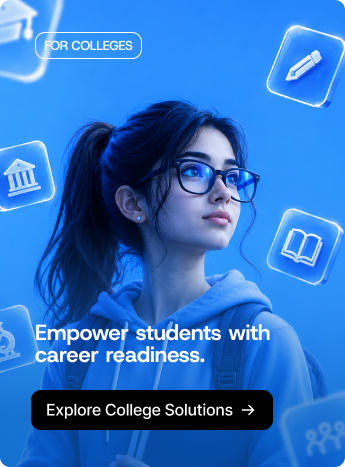
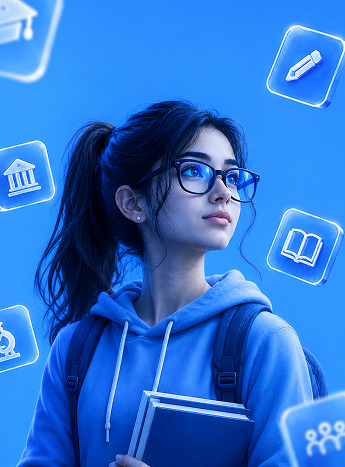
button radius updated

diff --git a/components/home/HeroSection.tsx b/components/home/HeroSection.tsx
@@ -9,13 +9,13 @@ export default function HeroSection() {
   return (
     <section className="relative overflow-hidden bg-gradient-to-b from-[#FAF0FA] via-[#F5EFFE] to-[#F1E9FD] pt-12 pb-14 md:pt-20 md:pb-20">
       {/* Decorative ambient background glows */}
-      <div 
-        className="pointer-events-none absolute -right-20 top-0 h-[600px] w-[600px] rounded-full bg-radial from-[#C9A6FF]/35 to-transparent blur-3xl" 
-        aria-hidden="true" 
+      <div
+        className="pointer-events-none absolute -right-20 top-0 h-[600px] w-[600px] rounded-full bg-radial from-[#C9A6FF]/35 to-transparent blur-3xl"
+        aria-hidden="true"
       />
-      <div 
-        className="pointer-events-none absolute -left-20 bottom-10 h-[450px] w-[450px] rounded-full bg-radial from-[#DCC7FF]/30 to-transparent blur-3xl" 
-        aria-hidden="true" 
+      <div
+        className="pointer-events-none absolute -left-20 bottom-10 h-[450px] w-[450px] rounded-full bg-radial from-[#DCC7FF]/30 to-transparent blur-3xl"
+        aria-hidden="true"
       />
 
       <div className="wrap relative z-10">
@@ -24,7 +24,7 @@ export default function HeroSection() {
           {/* Left Column: Text & Content */}
           <div className="lg:col-span-6 flex flex-col items-start gap-5">
             {/* Top Pill Badge */}
-            <div className="inline-flex items-center gap-2 rounded-full border border-black/15 bg-white/70 backdrop-blur-sm px-4 py-1.5 text-[13px] font-medium text-black shadow-xs">
+            <div className="inline-flex items-center gap-2 rounded-[10px] border border-black/15 bg-white/70 backdrop-blur-sm px-4 py-1.5 text-[13px] font-medium text-black shadow-xs">
               <span>Welcome Onboard</span>
             </div>
 
@@ -37,7 +37,9 @@ export default function HeroSection() {
 
             {/* Subtext */}
             <p className="text-[16px] sm:text-[18px] text-[#4C4C58] leading-relaxed max-w-[500px]">
-              SkillReady connects students, colleges, and companies through a structured ecosystem that transforms career aspirations into real opportunities.
+              SkillReady connects students, colleges, and companies through a
+              structured ecosystem that transforms career aspirations into real
+              opportunities.
             </p>
           </div>
 
@@ -62,7 +64,8 @@ export default function HeroSection() {
           <div className="flex items-center gap-4 text-left w-full md:w-auto">
             <Logo className="text-[#713FFF] w-10 h-10 flex-none" />
             <p className="text-[15px] sm:text-[16px] font-semibold text-black leading-snug">
-              Learn the right skills. Track progress. <br className="hidden sm:inline" />
+              Learn the right skills. Track progress.{" "}
+              <br className="hidden sm:inline" />
               Build employability. Hire with confidence.
             </p>
           </div>
@@ -71,24 +74,30 @@ export default function HeroSection() {
           <div className="flex items-center gap-2.5 sm:gap-3 flex-wrap justify-start sm:justify-end w-full md:w-auto">
             <Link
               href="/students"
-              className="inline-flex items-center gap-1.5 bg-black hover:bg-[#222222] text-white text-[14px] font-medium px-5 py-2.5 rounded-full transition-all duration-150 active:scale-95 shadow-xs"
+              className="inline-flex items-center gap-1.5 bg-black hover:bg-[#222222] text-white text-[14px] font-medium px-5 py-2.5 rounded-[10px] transition-all duration-150 active:scale-95 shadow-xs"
             >
               <span>Students</span>
-              <span aria-hidden="true" className="text-sm">→</span>
+              <span aria-hidden="true" className="text-sm">
+                →
+              </span>
             </Link>
             <Link
               href="/colleges"
-              className="inline-flex items-center gap-1.5 bg-black hover:bg-[#222222] text-white text-[14px] font-medium px-5 py-2.5 rounded-full transition-all duration-150 active:scale-95 shadow-xs"
+              className="inline-flex items-center gap-1.5 bg-black hover:bg-[#222222] text-white text-[14px] font-medium px-5 py-2.5 rounded-[10px] transition-all duration-150 active:scale-95 shadow-xs"
             >
               <span>Colleges</span>
-              <span aria-hidden="true" className="text-sm">→</span>
+              <span aria-hidden="true" className="text-sm">
+                →
+              </span>
             </Link>
             <Link
               href="/companies"
-              className="inline-flex items-center gap-1.5 bg-black hover:bg-[#222222] text-white text-[14px] font-medium px-5 py-2.5 rounded-full transition-all duration-150 active:scale-95 shadow-xs"
+              className="inline-flex items-center gap-1.5 bg-black hover:bg-[#222222] text-white text-[14px] font-medium px-5 py-2.5 rounded-[10px] transition-all duration-150 active:scale-95 shadow-xs"
             >
               <span>Companies</span>
-              <span aria-hidden="true" className="text-sm">→</span>
+              <span aria-hidden="true" className="text-sm">
+                →
+              </span>
             </Link>
           </div>
         </div>

diff --git a/components/home/CtaSection.tsx b/components/home/CtaSection.tsx
@@ -33,21 +33,21 @@ export default function CtaSection() {
             <div className="flex items-center gap-3 flex-wrap pt-2">
               <Link
                 href="/students"
-                className="inline-flex items-center gap-1.5 bg-black hover:bg-[#1C1C1C] text-white text-[14px] font-medium px-5 py-2.5 rounded-full transition-all duration-150 active:scale-95 shadow-md"
+                className="inline-flex items-center gap-1.5 bg-black hover:bg-[#1C1C1C] text-white text-[14px] font-medium px-5 py-2.5 rounded-[10px] transition-all duration-150 active:scale-95 shadow-md"
               >
                 <span>Students</span>
                 <span aria-hidden="true" className="text-sm">→</span>
               </Link>
               <Link
                 href="/colleges"
-                className="inline-flex items-center gap-1.5 bg-black hover:bg-[#1C1C1C] text-white text-[14px] font-medium px-5 py-2.5 rounded-full transition-all duration-150 active:scale-95 shadow-md"
+                className="inline-flex items-center gap-1.5 bg-black hover:bg-[#1C1C1C] text-white text-[14px] font-medium px-5 py-2.5 rounded-[10px] transition-all duration-150 active:scale-95 shadow-md"
               >
                 <span>Colleges</span>
                 <span aria-hidden="true" className="text-sm">→</span>
               </Link>
               <Link
                 href="/companies"
-                className="inline-flex items-center gap-1.5 bg-black hover:bg-[#1C1C1C] text-white text-[14px] font-medium px-5 py-2.5 rounded-full transition-all duration-150 active:scale-95 shadow-md"
+                className="inline-flex items-center gap-1.5 bg-black hover:bg-[#1C1C1C] text-white text-[14px] font-medium px-5 py-2.5 rounded-[10px] transition-all duration-150 active:scale-95 shadow-md"
               >
                 <span>Companies</span>
                 <span aria-hidden="true" className="text-sm">→</span>

diff --git a/components/layout/Navbar.tsx b/components/layout/Navbar.tsx
@@ -72,7 +72,7 @@ export default function Navbar() {
 
           <div className="nav-actions hidden md:flex items-center gap-3">
             <Link
-              className="bg-black hover:bg-[#222222] text-white text-[14px] font-medium px-5 py-2.5 rounded-full transition-all duration-150 active:scale-95 shadow-sm"
+              className="bg-black hover:bg-[#222222] text-white text-[14px] font-medium px-5 py-2.5 rounded-[10px] transition-all duration-150 active:scale-95 shadow-sm"
               href="/contact"
               onClick={() => setMobileMenuOpen(false)}
             >
@@ -114,7 +114,7 @@ export default function Navbar() {
             </Link>
             <div className="pt-3 border-t border-gray-100 flex flex-col gap-2">
               <Link
-                className="bg-black text-white text-center text-sm font-semibold py-3 rounded-full"
+                className="bg-black text-white text-center text-sm font-semibold py-3 rounded-[10px]"
                 href="/contact"
                 onClick={() => setMobileMenuOpen(false)}
               >

diff --git a/components/home/AudienceSolutionsSection.tsx b/components/home/AudienceSolutionsSection.tsx
@@ -88,7 +88,7 @@ export default function AudienceSolutionsSection() {
                 </h3>
                 <Link
                   href={card.href}
-                  className="inline-flex items-center gap-2 rounded-full bg-black hover:bg-[#1C1C1C] text-white text-[13px] sm:text-[14px] font-semibold px-5 py-2.5 transition-all active:scale-95 shadow-md"
+                  className="inline-flex items-center gap-2 rounded-[10px] bg-black hover:bg-[#1C1C1C] text-white text-[13px] sm:text-[14px] font-semibold px-5 py-2.5 transition-all active:scale-95 shadow-md"
                 >
                   <span>{card.btnText}</span>
                   <span aria-hidden="true">→</span>
